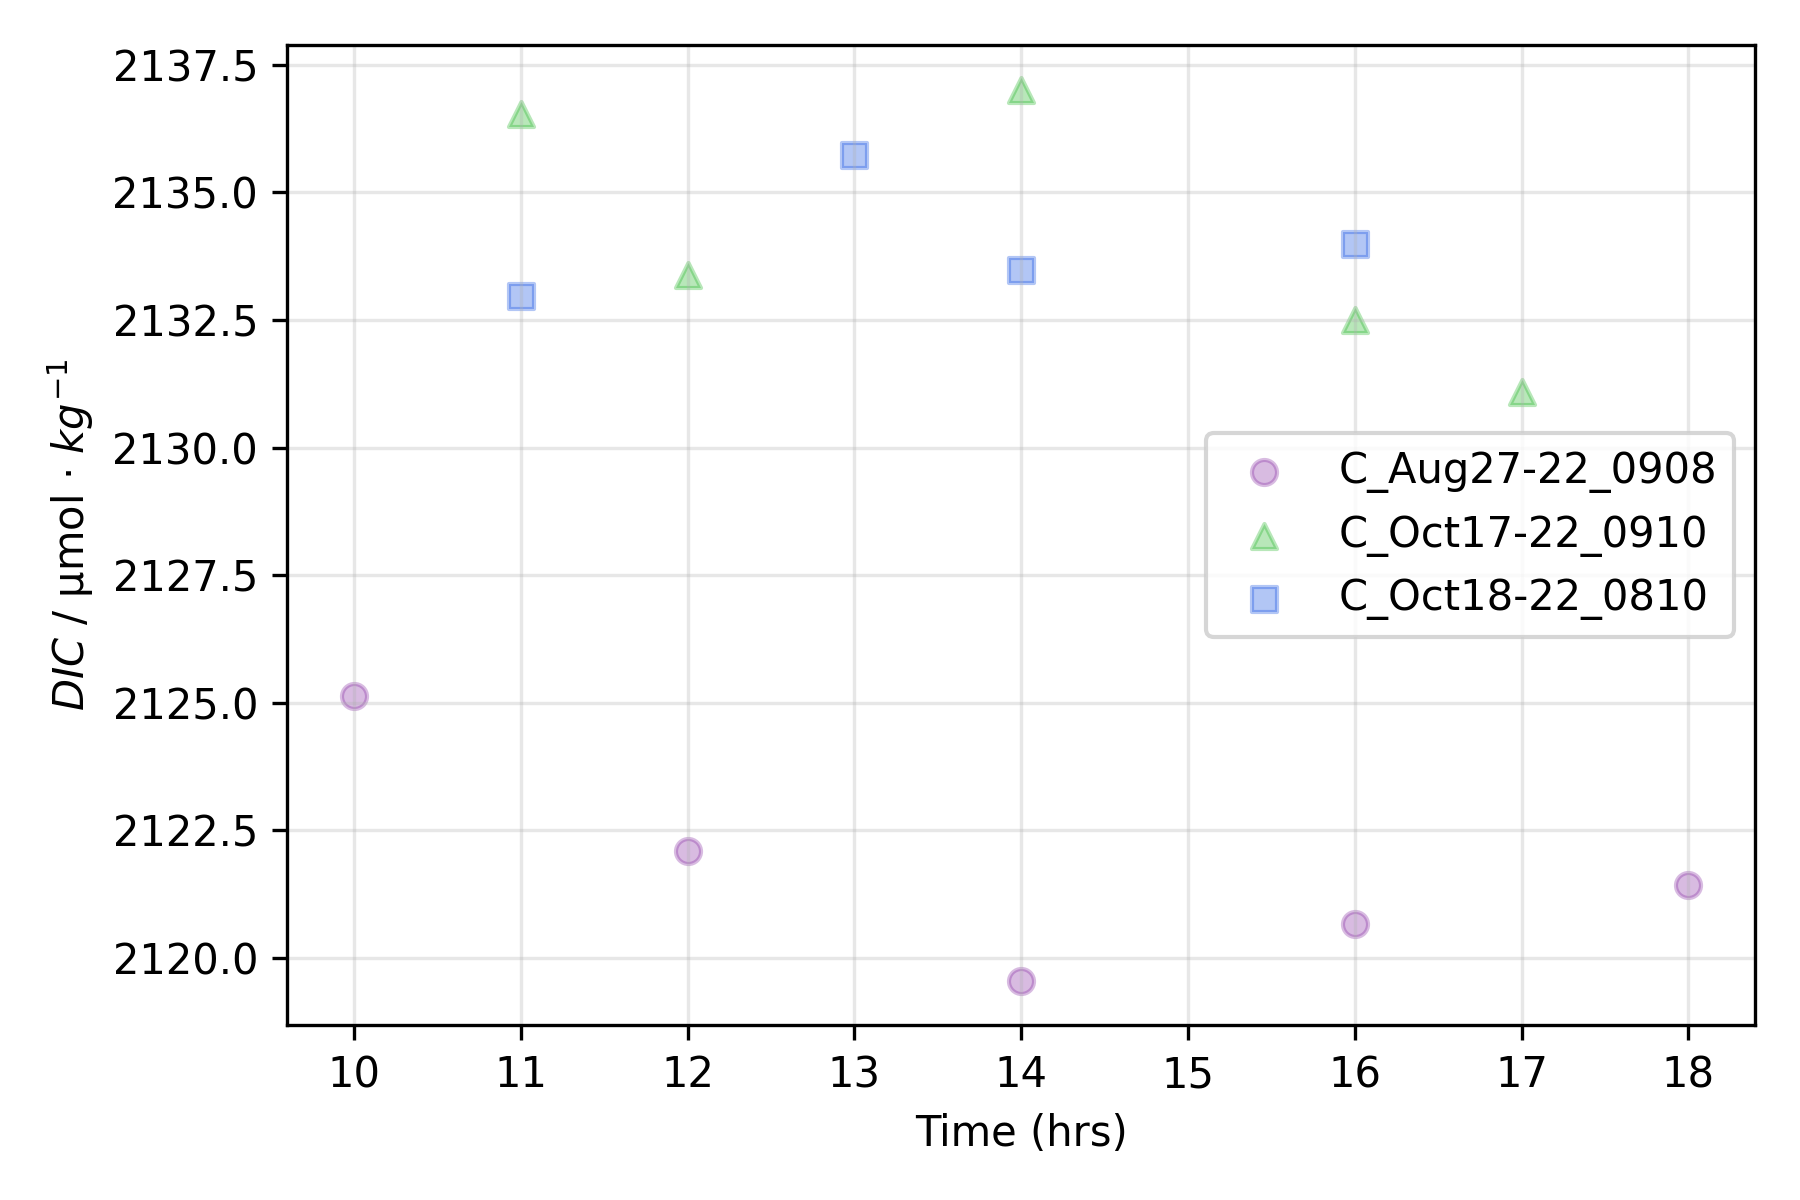
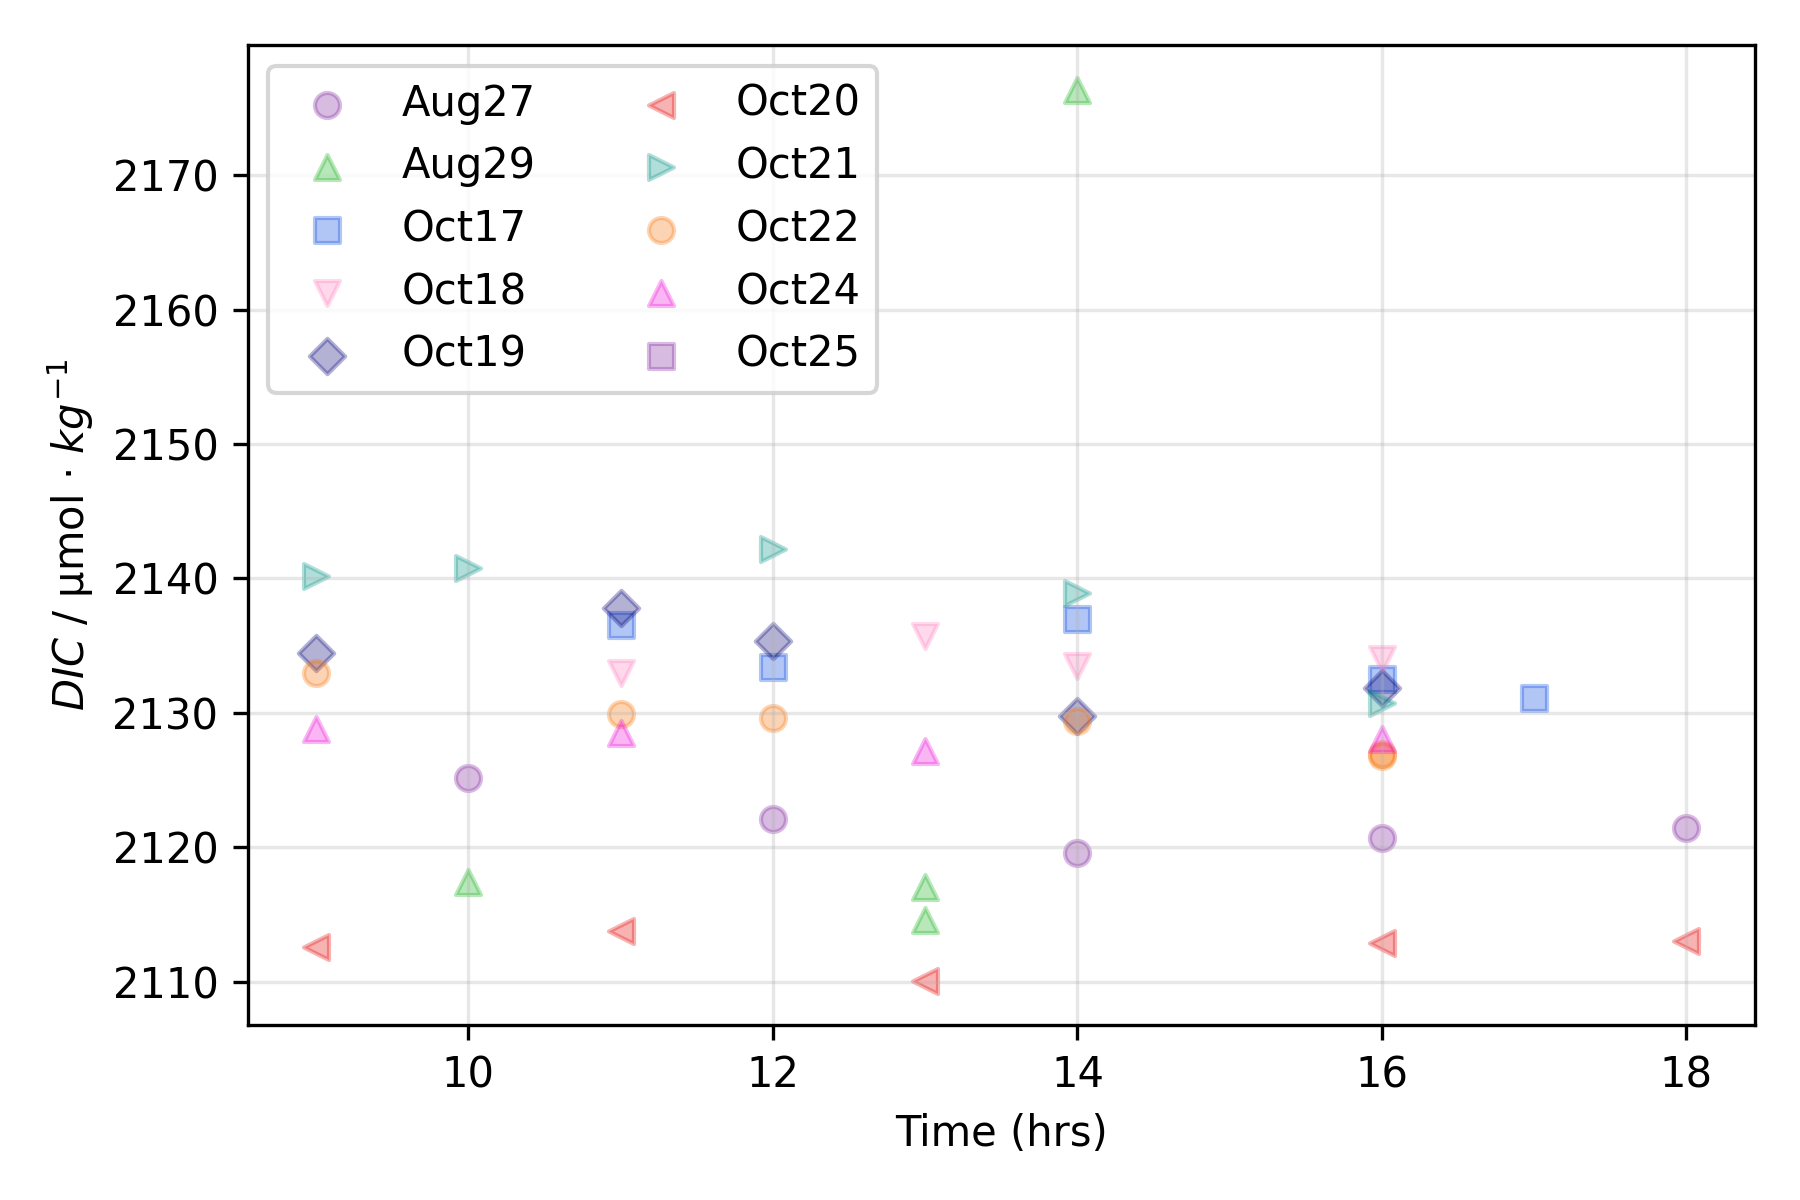
processed up to 25 October

diff --git a/SO289-64PE503/process_SO289_64PE503.py b/SO289-64PE503/process_SO289_64PE503.py
@@ -1,5 +1,6 @@
 import copy
 import numpy as np, pandas as pd
+import matplotlib.dates as dates
 from matplotlib import pyplot as plt
 import itertools
 import koolstof as ks, calkulate as calk
@@ -14,15 +15,14 @@ logfile = ks.read_logfile(
 
 dbs = ks.read_dbs("data/64PE503_SO289_2022.dbs", logfile=logfile)
 
-# Fix datetime issue in .dbs
+# Fix datetime issue in .dbs samples
+dbs.loc[dbs["bottle"]=="SO289-41297", "analysis_datetime"] = "2022-10-21 11:58:00"
 dbs.loc[dbs["bottle"]=="64PE503-28-5-8", "analysis_datetime"] = "2022-10-21 12:12:00"
-dbs.loc[dbs["bottle"]=="NUTSLAB03", "analysis_datetime"] = "2022-10-21 12:28:00"
 dbs.loc[dbs["bottle"]=="64PE503-68-6-5", "analysis_datetime"] = "2022-10-21 12:44:00"
 dbs.loc[dbs["bottle"]=="SO289-40698", "analysis_datetime"] = "2022-10-21 13:00:00"
 dbs.loc[dbs["bottle"]=="64PE503-12-7-2", "analysis_datetime"] = "2022-10-21 13:14:00"
 dbs.loc[dbs["bottle"]=="64PE503-46-4-8", "analysis_datetime"] = "2022-10-21 13:30:00"
 dbs.loc[dbs["bottle"]=="64PE503-56-4-2", "analysis_datetime"] = "2022-10-21 13:46:00"
-dbs.loc[dbs["bottle"]=="NUTSLAB04", "analysis_datetime"] = "2022-10-21 14:02:00"
 dbs.loc[dbs["bottle"]=="SO289-40611", "analysis_datetime"] = "2022-10-21 14:18:00"
 dbs.loc[dbs["bottle"]=="SO289-40499", "analysis_datetime"] = "2022-10-21 14:33:00"
 dbs.loc[dbs["bottle"]=="64PE503-58-4-5", "analysis_datetime"] = "2022-10-21 14:50:00"
@@ -30,9 +30,26 @@ dbs.loc[dbs["bottle"]=="64PE503-66-5-8", "analysis_datetime"] = "2022-10-21 15:0
 dbs.loc[dbs["bottle"]=="64PE503-14-4-11", "analysis_datetime"] = "2022-10-21 15:24:00"
 dbs.loc[dbs["bottle"]=="64PE503-47-4-11", "analysis_datetime"] = "2022-10-21 15:39:00"
 dbs.loc[dbs["bottle"]=="64PE503-26-5-8", "analysis_datetime"] = "2022-10-21 15:55:00"
-dbs.loc[dbs["bottle"]=="NUTSLAB05", "analysis_datetime"] = "2022-10-21 16:11:00"
 dbs.loc[dbs["bottle"]=="CRM-189-0526-01", "analysis_datetime"] = "2022-10-21 16:28:00"
 dbs.loc[dbs["bottle"]=="CRM-189-0526-02", "analysis_datetime"] = "2022-10-21 17:17:00"
+
+# Fix datetime issue in .dbs nuts
+L = (dbs["bottle"] == "NUTSLAB03") & (dbs["analysis_datetime"].isnull())
+dbs.loc[L, "analysis_datetime"] = "2022-10-21 12:28:00"
+L = (dbs["bottle"] == "NUTSLAB04") & (dbs["analysis_datetime"].isnull())
+dbs.loc[L, "analysis_datetime"] = "2022-10-21 14:02:00"
+L = (dbs["bottle"] == "NUTSLAB05") & (dbs["analysis_datetime"].isnull())
+dbs.loc[L, "analysis_datetime"] = "2022-10-21 16:11:00"
+
+# Convert datetime to datenum
+dbs["analysis_datenum"] = dates.date2num(dbs["analysis_datetime"])
+
+# Add a column to locate real analysis days
+dbs["real_day"] = True
+dbs.loc[dbs["dic_cell_id"]=="C_Aug26-22_0808", "real_day"] = False
+dbs.loc[dbs["dic_cell_id"]=="C_Aug28-22_0808", "real_day"] = False
+# dbs.loc[dbs["dic_cell_id"]=="C_Aug29-22_0808", "real_day"] = False
+dbs.loc[dbs["dic_cell_id"]=="C_Aug30-22_0808", "real_day"] = False
 
 # Create empty metadata columns
 for meta in [
@@ -82,14 +99,13 @@ dbs['file_good'] = True
 
 # === ALKALINITY
 # Assign alkalinity metadata
-dbs["analyte_volume"] = 95.939  # TA pipette volume in ml
+dbs["analyte_volume"] = 98.865  # TA pipette volume in ml
 dbs["file_path"] = "data/64PE503_SO289_2022/"
 
-#%% Assign TA acid batches
-dbs.loc[dbs['analysis_datetime'].dt.month == 8, 'analysis_batch'] = 0
-dbs.loc[dbs['analysis_datetime'].dt.month == 9, 'analysis_batch'] = 1
-dbs.loc[(dbs['analysis_datetime'].dt.month == 10) & (dbs["analysis_datetime"].dt.day <= 19), 'analysis_batch'] = 1
-dbs.loc[(dbs['analysis_datetime'].dt.month == 10) & (dbs["analysis_datetime"].dt.day >= 20), 'analysis_batch'] = 2
+# Assign TA acid batches
+dbs["analysis_batch"] = 0
+dbs.loc[(dbs['analysis_datetime'].dt.day >= 11) & (dbs['analysis_datetime'].dt.month == 10), 'analysis_batch'] = 1
+dbs.loc[(dbs['analysis_datetime'].dt.day >= 20) & (dbs['analysis_datetime'].dt.month == 10), 'analysis_batch'] = 2
 
 # Select which TA CRMs to use/avoid for calibration
 dbs["reference_good"] = ~np.isnan(dbs.alkalinity_certified)
@@ -109,7 +125,7 @@ dbs['blank_good'] = True
 dbs["k_dic_good"] = dbs.crm & dbs.bottle.str.endswith("-01")
 
 # Get blanks and apply correction
-dbs.get_blank_corrections() # =======HERE
+dbs.get_blank_corrections()
 dbs.plot_blanks(figure_path="figs/dic_blanks/")
 
 # Calibrate DIC and plot calibration
@@ -122,7 +138,7 @@ dbs.plot_dic_offset(figure_path="figs/")
 # Demote dbs to a standard DataFrame
 dbs = pd.DataFrame(dbs)
 
-# === PLOT NUTS FOR EACH ANALYSIS DAY
+# === PLOT NUTS FOR EACH "REAL" ANALYSIS DAY
 # Prepare colours and markers
 markers = itertools.cycle(("o", "^", "s", "v", "D", "<", ">"))
 colors = itertools.cycle(
@@ -144,9 +160,10 @@ L = dbs["bottle"].str.startswith("NUTS")
 nuts = dbs[L]
 
 # Only keep real analysis days
-real_days = ["C_Aug27-22_0908", "C_Oct17-22_0910", "C_Oct18-22_0810"]
-L = nuts["dic_cell_id"].isin(real_days)
+L = nuts["real_day"] == True
 nuts = nuts[L]
+
+real_days = list(nuts["dic_cell_id"].unique())
 
 # Create an hour column
 nuts["hour"] = nuts["analysis_datetime"].dt.hour
@@ -160,6 +177,7 @@ for r in real_days:
     data = nuts[L]
     m = next(markers)
     c = next(colors)
+    l = r.split("_")[1].replace("-22", "")
     ax.scatter(
         x="hour",
         y="dic",
@@ -167,10 +185,11 @@ for r in real_days:
         marker=m,
         color=c,
         alpha=0.3,
-        label=r,
+        label=l,
     )
     
-ax.legend()
+ax.legend(loc="upper left", ncol=2) # bbox_to_anchor=(1, 0.5)
+# ax.set_ylim(2000, 2200)
 ax.grid(alpha=0.3)
 ax.set_xlabel("Time (hrs)")
 ax.set_ylabel("$DIC$ / μmol · $kg^{-1}$")
